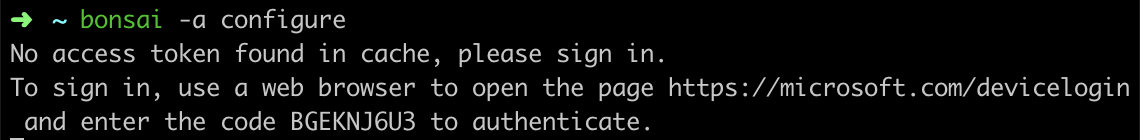
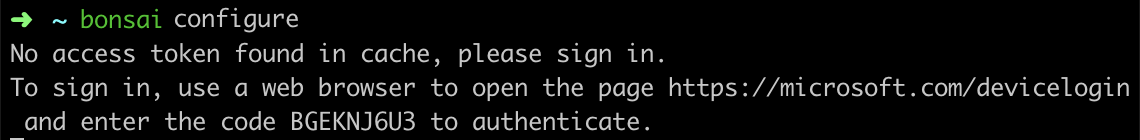
changes to quickstart for AAD clarifiction nd removal of -a in bonsai configure, as it is now default behavior

Changed region(s): [[0.1535, 0.0571, 0.307, 0.2571]]

diff --git a/source/includes/cli-reference/_commands.html.md b/source/includes/cli-reference/_commands.html.md
@@ -46,7 +46,7 @@ Example:
 ## bonsai configure
 
 ```
-$ bonsai -a configure --help
+$ bonsai configure --help
 Usage: bonsai configure [OPTIONS]
 
   Authenticate with the BRAIN Server.
@@ -58,7 +58,7 @@ Options:
   -h, --help  Show this message and exit.
 ```
 
-`bonsai -a configure` sets up authentication between you (as a user) and the server. This enables the server to verify your access to write Inkling code to a specific BRAIN.
+`bonsai configure` sets up authentication between you (as a user) and the server. This enables the server to verify your access to write Inkling code to a specific BRAIN.
 
 The first time that you use this command, you will see a command prompt [as below][1]:
 
@@ -67,21 +67,6 @@ Navigate to the [hyperlink](https://microsoft.com/devicelogin) on any web-enable
 Once you enter the Authentication code, you will be prompted to [log in][3] and authorize "Bonsai" to access your account. Click the account that you were whitelisted with to authenticate and your profile will be automatically configured to access the platform. 
 
 Access Key (typing will be hidden): You can find your [access key][4] at [https://beta.bons.ai/accounts/settings/key][5].
-
-*Note: The access key you need to input here is a one-time code generated when you click "Create Access Key" on the bonsai web portal.* 
-
-For security, you will not be able to view an access key after it has been created. However, you can create as many access keys as you’d like in case you need to install the CLI on multiple devices.
-
-**The below instructions for bonsai configure are deprecated and stored for reference. DO NOT USE the below to access the platform.**
-
-`bonsai configure` sets up authentication between you (as a user) and the server. This enables the server to verify your access to write Inkling code to a specific BRAIN.
-
-
-The fields that are requested for input are:
-
-Username: This is your bonsai portal username, you can find this on https://beta.bons.ai/accounts/settings under 'profile'.
-
-Access Key (typing will be hidden): You can find your [access key][4] at [https://beta.bons.ai/accounts/settings/key][5]. 
 
 *Note: The access key you need to input here is a one-time code generated when you click "Create Access Key" on the bonsai web portal.* 
 
@@ -150,7 +135,7 @@ Options:
 * Status of http://beta.bons.ai
 * Local configuration
 
-If your local configuration is not set up correctly, you will need to use `bonsai -a configure` to change it appropriately. This configuration is listed in [bonsai -a configure](https://docs.bons.ai/references/cli-reference.html#bonsai-configure)
+If your local configuration is not set up correctly, you will need to use `bonsai configure` to change it appropriately. This configuration is listed in [bonsai configure](https://docs.bons.ai/references/cli-reference.html#bonsai-configure)
 
 
 
@@ -181,7 +166,7 @@ Options:
   -h, --help  Show this message and exit.
 ```
 
-`bonsai list` shows you the BRAINs on your account. You must have your Bonsai account configured with `bonsai -a configure` before you can see this list.
+`bonsai list` shows you the BRAINs on your account. You must have your Bonsai account configured with `bonsai configure` before you can see this list.
 
 ## bonsai pull
 

diff --git a/source/includes/getting-started/_quick-start.html.md b/source/includes/getting-started/_quick-start.html.md
@@ -2,7 +2,24 @@
 
 Before you begin, you will need to have access to the Bonsai Platform preview. If you don’t have access yet, request access from your Microsoft representative or navigate to (https://beta.bons.ai/sign-up). 
 
-Once you have an account e-mail confirmation that your email has been whitelisted into the Beta, navigate to [sign in](https://beta.bons.ai/accounts/signin) and this will bring you to your Microsoft organization Azure Active Directory [log-in page][15]. If you are already logged in using Azure Active Directory, you will not need to sign in as your login will authenticate you to the Bonsai platform.
+## Requirement for Bonsai access
+
+You will need an (Azure Active Directory)[https://docs.microsoft.com/en-us/azure/active-directory/fundamentals/active-directory-whatis](AAD) account to sign up for the Bonsai platform. 
+
+## Don't have an Azure Active Directory Account?
+If you do not have an AAD account, you will have to ask your administrator to add you to your (Azure Active Directory organization)[https://docs.microsoft.com/en-us/azure/active-directory/fundamentals/add-users-azure-active-directory].
+
+At this time, Bonsai does not accept Microsoft Accounts (MSA Accounts). 
+
+If your organiation does not have a Microsoft AAD Account, please ask your IT Administrator to (create an AD Tenant)[https://docs.microsoft.com/en-us/azure/active-directory/fundamentals/active-directory-access-create-new-tenant] and add you and other members of your project to it.
+
+## Logging in
+Once you have an e-mail confirmation that your (Azure Active Directory)[https://docs.microsoft.com/en-us/azure/active-directory/fundamentals/active-directory-whatis] Account has been whitelisted into the Beta: 
+1. Navigate to [sign in](https://beta.bons.ai/accounts/signin) 
+2. Go to the Azure Active Directory [log-in page][15]. 
+3. Authorize 'Bonsai' for remote connection to your Microsoft account.
+
+If you are already logged in using Azure Active Directory, you will not need to sign in as your login will authenticate you to the Bonsai platform.
 
 
 # Create Your BRAIN
